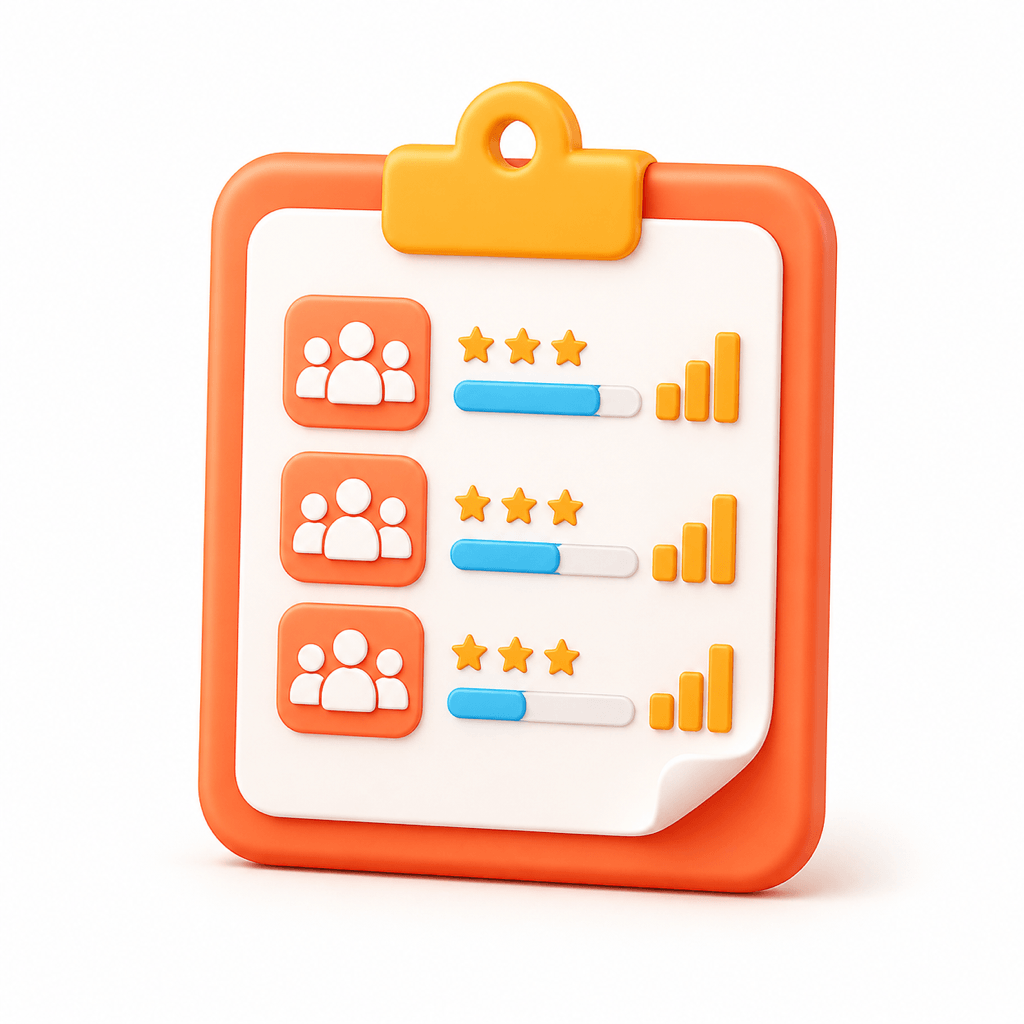
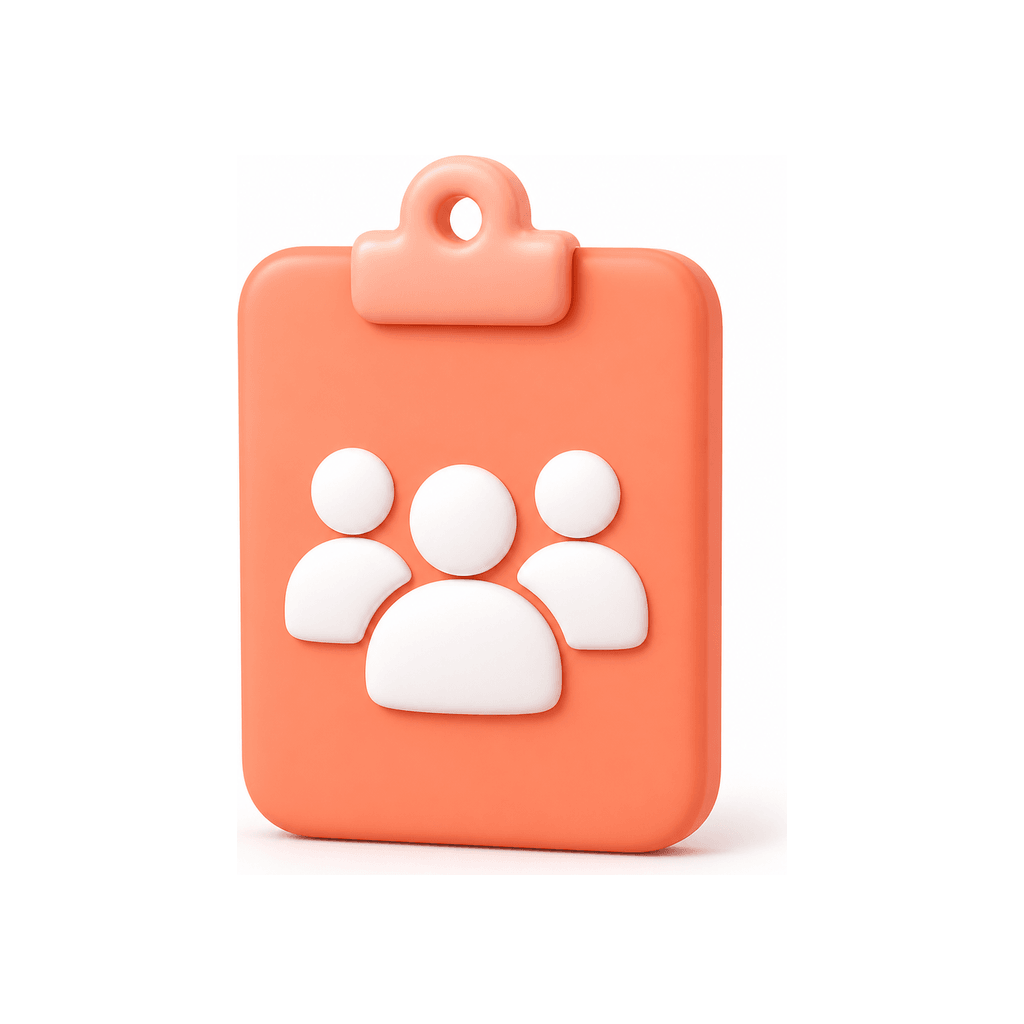
统一班级评价报表图标与文案

diff --git a/mobile-app/views/MoralEducationCockpitView.tsx b/mobile-app/views/MoralEducationCockpitView.tsx
@@ -178,7 +178,7 @@ const MoralEducationCockpitView: React.FC<MoralEducationCockpitViewProps> = ({ o
                 if (!disposed) setSnapshot(data);
             })
             .catch(() => {
-                if (!disposed) setLoadError('德育评价数据加载失败，请稍后重试');
+                if (!disposed) setLoadError('班级评价数据加载失败，请稍后重试');
             })
             .finally(() => {
                 if (!disposed) setIsLoading(false);
@@ -303,7 +303,7 @@ const MoralEducationCockpitView: React.FC<MoralEducationCockpitViewProps> = ({ o
 
                     {snapshot && !loadError && (
                         <>
-                            <section className={reportCardClassName} aria-label="德育数据概况">
+                            <section className={reportCardClassName} aria-label="班级评价数据概况">
                                 <SectionHeader title="数据概况" />
                                 <div className="grid grid-cols-[minmax(0,1fr)_96px] gap-4">
                                     <div className="min-w-0">
